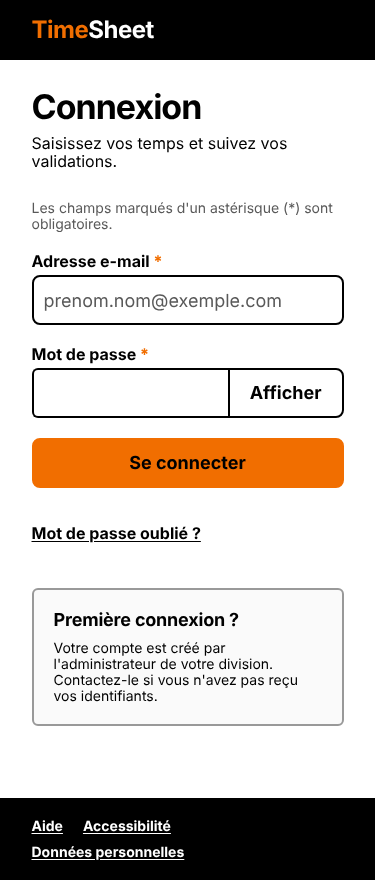
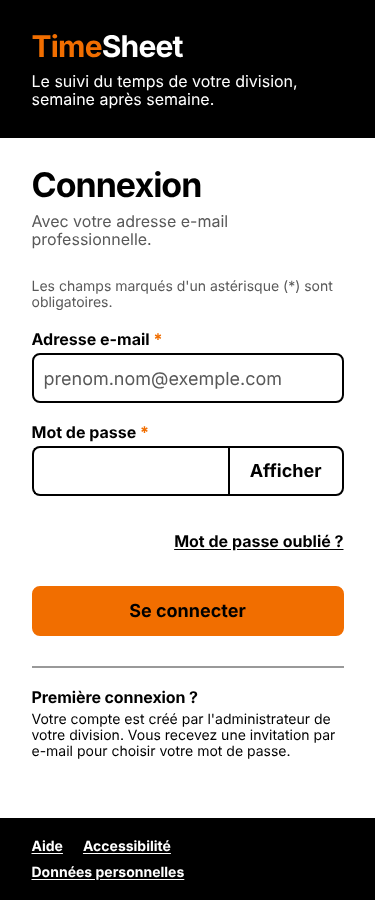
Maquettes et spécification : nouvelle version fournie
Remplacement de PROMPT.md, CLAUDE.md et design/ par la version fournie (planche 01-Connexion-erreur, volets .ts-login, vue Colonnes dans l'URL). Section Commandes de CLAUDE.md rétablie.

diff --git a/design/ecrans/01-Connexion.html b/design/ecrans/01-Connexion.html
@@ -8,6 +8,6 @@
 <style>body{margin:0}</style>
 </head>
 <body>
-<div class="page page-plain"><header class="navbar"><div class="container"><a class="navbar-brand" href="01-Connexion.html"><span><span class="wm-time">Time</span>Sheet</span></a></div></header><main class="container" style="display: grid; grid-template-columns: repeat(auto-fit, minmax(min(380px, 100%), 1fr)); gap: 60px; align-items: start; padding: 60px 0px;"><section aria-labelledby="titre-connexion" style="display: flex; flex-direction: column; gap: 30px;"><div style="display: flex; flex-direction: column; gap: 10px;"><h1 id="titre-connexion">Connexion</h1><p class="lead">Saisissez vos temps, suivez vos validations et retrouvez vos fiches de présence.</p></div><form style="display: flex; flex-direction: column; gap: 20px;"><p class="small text-secondary">Les champs marqués d'un astérisque (*) sont obligatoires.</p><div><label class="form-label is-required" for="email">Adresse e-mail</label><input class="form-control" id="email" type="email" autocomplete="username" aria-required="true" placeholder="prenom.nom@exemple.com"></div><div><label class="form-label is-required" for="mdp">Mot de passe</label><div class="input-group"><input class="form-control" id="mdp" type="password" autocomplete="current-password" aria-required="true"><button class="btn" type="button" aria-pressed="false">Afficher</button></div></div><div style="display: flex; flex-wrap: wrap; align-items: center; justify-content: space-between; gap: 20px;"><a class="btn btn-primary" href="02-Tableau-de-bord.html">Se connecter</a><a href="#">Mot de passe oublié ?</a></div></form><div class="ts-todo" style="display: flex; flex-direction: column; gap: 10px;"><p class="small fw-bold">Prototype uniquement : entrer avec un profil</p><ul style="display: flex; flex-wrap: wrap; gap: 10px 20px;"><li><a href="02-Tableau-de-bord.html">Staff</a></li><li><a href="07-File-validation.html">Manager</a></li><li><a href="11-Vue-consolidee.html">Owner</a></li><li><a href="12-Admin-division.html">Admin division</a></li><li><a href="13-Admin-plateforme.html">Admin plateforme</a></li></ul></div></section><aside class="card card-muted" aria-labelledby="titre-aide"><h2 class="h4" id="titre-aide">Première connexion ?</h2><p>Votre compte est créé par l'administrateur de votre division. Vous recevez vos identifiants par e-mail.</p><p>Si vous n'avez rien reçu, contactez l'administrateur de votre division.</p></aside></main><footer class="footer"><div class="container"><span>TimeSheet · usage interne</span><a href="#">Aide</a><a href="#">Accessibilité</a><a href="#">Données personnelles</a></div></footer></div>
+<div class="ts-login"><aside class="ts-login-brand" aria-label="Présentation de TimeSheet"><p class="h1"><span class="wm-time">Time</span>Sheet</p><div style="display: flex; flex-direction: column; gap: 30px;"><p class="h2">Le suivi du temps de votre division, semaine après semaine.</p><ol class="ts-login-steps"><li><span class="ts-login-num" aria-hidden="true">1</span><span><span class="fw-bold">Saisir.</span> Vos heures par projet, jour par jour.</span></li><li><span class="ts-login-num" aria-hidden="true">2</span><span><span class="fw-bold">Soumettre.</span> Votre manager valide la semaine ou vous la renvoie.</span></li><li><span class="ts-login-num" aria-hidden="true">3</span><span><span class="fw-bold">Signer.</span> Chaque mois, votre fiche de présence part aux RH.</span></li></ol></div><p class="small">Orange Cameroun · usage interne</p></aside><main class="ts-login-main"><div class="ts-login-form"><div style="display: flex; flex-direction: column; gap: 10px;"><h1 id="titre-connexion">Connexion</h1><p class="text-secondary">Avec votre adresse e-mail professionnelle.</p></div><form aria-labelledby="titre-connexion" style="display: flex; flex-direction: column; gap: 20px;"><p class="small text-secondary">Les champs marqués d'un astérisque (*) sont obligatoires.</p><div><label class="form-label is-required" for="email">Adresse e-mail</label><input class="form-control form-control-lg " id="email" type="email" autocomplete="username" aria-required="true" aria-describedby="err-email" placeholder="prenom.nom@exemple.com" value=""><div id="err-email"></div></div><div><label class="form-label is-required" for="mdp">Mot de passe</label><div class="input-group"><input class="form-control form-control-lg " id="mdp" type="password" autocomplete="current-password" aria-required="true" aria-describedby="err-mdp" value=""><button class="btn btn-lg" type="button" aria-pressed="false" aria-controls="mdp"><span class="sc-interp">Afficher</span></button></div><div id="err-mdp"></div></div><div style="display: flex; justify-content: flex-end;"><a href="#">Mot de passe oublié ?</a></div><button class="btn btn-primary btn-lg btn-block" type="button">Se connecter</button></form><div style="display: flex; flex-direction: column; gap: 5px; padding-top: 20px; border-top: 2px solid rgb(153, 153, 153);"><h2 class="h6">Première connexion ?</h2><p class="small">Votre compte est créé par l'administrateur de votre division. Vous recevez une invitation par e-mail pour choisir votre mot de passe.</p></div><div class="ts-todo" style="display: flex; flex-direction: column; gap: 10px;"><p class="small fw-bold">Prototype uniquement : entrer avec un profil</p><ul style="display: flex; flex-wrap: wrap; gap: 10px 20px;"><li><a href="02-Tableau-de-bord.html">Staff</a></li><li><a href="07-File-validation.html">Manager</a></li><li><a href="11-Vue-consolidee.html">Owner</a></li><li><a href="12-Admin-division.html">Admin division</a></li><li><a href="13-Admin-plateforme.html">Admin plateforme</a></li></ul></div></div><footer class="ts-login-foot"><a href="#">Aide</a><a href="#">Accessibilité</a><a href="#">Données personnelles</a></footer></main></div>
 </body>
 </html>

diff --git a/design/ecrans/01-Connexion-mobile.html b/design/ecrans/01-Connexion-mobile.html
@@ -8,6 +8,6 @@
 <style>body{margin:0}</style>
 </head>
 <body>
-<div style="width: 375px; min-height: 880px; display: flex; flex-direction: column; background: rgb(255, 255, 255);"><header class="navbar"><div class="container-xs" style="display: flex; align-items: center; min-height: 60px;"><a class="navbar-brand" href="01-Connexion-mobile.html"><span><span class="wm-time">Time</span>Sheet</span></a></div></header><main class="container-xs" style="flex: 1 1 0%; display: flex; flex-direction: column; gap: 30px; padding: 30px 0px;"><div style="display: flex; flex-direction: column; gap: 10px;"><h1>Connexion</h1><p>Saisissez vos temps et suivez vos validations.</p></div><form style="display: flex; flex-direction: column; gap: 20px;"><p class="small text-secondary">Les champs marqués d'un astérisque (*) sont obligatoires.</p><div><label class="form-label is-required" for="email">Adresse e-mail</label><input class="form-control form-control-lg" id="email" type="email" autocomplete="username" aria-required="true" placeholder="prenom.nom@exemple.com"></div><div><label class="form-label is-required" for="mdp">Mot de passe</label><div class="input-group"><input class="form-control form-control-lg" id="mdp" type="password" autocomplete="current-password" aria-required="true"><button class="btn btn-lg" type="button" aria-pressed="false" style="border-radius: 0px 8px 8px 0px;">Afficher</button></div></div><a class="btn btn-primary btn-lg btn-block" href="02-Tableau-de-bord-mobile.html">Se connecter</a><a href="#" style="display: flex; align-items: center; min-height: 50px;">Mot de passe oublié ?</a></form><aside class="card card-muted" aria-labelledby="titre-aide" style="gap: 10px;"><h2 class="h5" id="titre-aide">Première connexion ?</h2><p class="small">Votre compte est créé par l'administrateur de votre division. Contactez-le si vous n'avez pas reçu vos identifiants.</p></aside></main><footer class="footer"><div class="container-xs" style="display: flex; flex-wrap: wrap; gap: 10px 20px; font-size: 14px; line-height: 16px;"><a href="#">Aide</a><a href="#">Accessibilité</a><a href="#">Données personnelles</a></div></footer></div>
+<div style="width: 375px; min-height: 900px; display: flex; flex-direction: column; background: rgb(255, 255, 255);"><header style="padding: 30px 0px; background: rgb(0, 0, 0); color: rgb(255, 255, 255);"><div class="container-xs" style="display: flex; flex-direction: column; gap: 10px;"><p class="h2"><span class="wm-time">Time</span>Sheet</p><p>Le suivi du temps de votre division, semaine après semaine.</p></div></header><main class="container-xs" style="flex: 1 1 0%; display: flex; flex-direction: column; gap: 30px; padding: 30px 0px;"><div style="display: flex; flex-direction: column; gap: 10px;"><h1 id="titre-connexion">Connexion</h1><p class="text-secondary">Avec votre adresse e-mail professionnelle.</p></div><form aria-labelledby="titre-connexion" style="display: flex; flex-direction: column; gap: 20px;"><p class="small text-secondary">Les champs marqués d'un astérisque (*) sont obligatoires.</p><div><label class="form-label is-required" for="email">Adresse e-mail</label><input class="form-control form-control-lg " id="email" type="email" autocomplete="username" aria-required="true" aria-describedby="err-email" placeholder="prenom.nom@exemple.com" value=""><div id="err-email"></div></div><div><label class="form-label is-required" for="mdp">Mot de passe</label><div class="input-group"><input class="form-control form-control-lg " id="mdp" type="password" autocomplete="current-password" aria-required="true" aria-describedby="err-mdp" value=""><button class="btn btn-lg" type="button" aria-pressed="false" aria-controls="mdp"><span class="sc-interp">Afficher</span></button></div><div id="err-mdp"></div></div><div style="display: flex; justify-content: flex-end;"><a href="#" style="display: flex; align-items: center; min-height: 50px;">Mot de passe oublié ?</a></div><button class="btn btn-primary btn-lg btn-block" type="button">Se connecter</button></form><div style="display: flex; flex-direction: column; gap: 5px; padding-top: 20px; border-top: 2px solid rgb(153, 153, 153);"><h2 class="h6">Première connexion ?</h2><p class="small">Votre compte est créé par l'administrateur de votre division. Vous recevez une invitation par e-mail pour choisir votre mot de passe.</p></div></main><footer class="footer"><div class="container-xs" style="display: flex; flex-wrap: wrap; gap: 10px 20px; font-size: 14px; line-height: 16px;"><a href="#">Aide</a><a href="#">Accessibilité</a><a href="#">Données personnelles</a></div></footer></div>
 </body>
 </html>

diff --git a/design/ecrans/01-Connexion-erreur.html b/design/ecrans/01-Connexion-erreur.html
@@ -1,0 +1,13 @@
+<!doctype html>
+<html lang="fr">
+<head>
+<meta charset="utf-8">
+<meta name="viewport" content="width=device-width, initial-scale=1">
+<title>Connexion, identifiants incorrects</title>
+<link rel="stylesheet" href="../ods.css">
+<style>body{margin:0}</style>
+</head>
+<body>
+<div class="ts-login"><aside class="ts-login-brand" aria-label="Présentation de TimeSheet"><p class="h1"><span class="wm-time">Time</span>Sheet</p><div style="display: flex; flex-direction: column; gap: 30px;"><p class="h2">Le suivi du temps de votre division, semaine après semaine.</p><ol class="ts-login-steps"><li><span class="ts-login-num" aria-hidden="true">1</span><span><span class="fw-bold">Saisir.</span> Vos heures par projet, jour par jour.</span></li><li><span class="ts-login-num" aria-hidden="true">2</span><span><span class="fw-bold">Soumettre.</span> Votre manager valide la semaine ou vous la renvoie.</span></li><li><span class="ts-login-num" aria-hidden="true">3</span><span><span class="fw-bold">Signer.</span> Chaque mois, votre fiche de présence part aux RH.</span></li></ol></div><p class="small">Orange Cameroun · usage interne</p></aside><main class="ts-login-main"><div class="ts-login-form"><div style="display: flex; flex-direction: column; gap: 10px;"><h1 id="titre-connexion">Connexion</h1><p class="text-secondary">Avec votre adresse e-mail professionnelle.</p></div><form aria-labelledby="titre-connexion" style="display: flex; flex-direction: column; gap: 20px;"><div class="alert alert-danger" role="alert"><span class="mark mark-danger" aria-hidden="true"></span><div class="alert-body"><p class="alert-heading">Connexion impossible</p><p>L'adresse e-mail ou le mot de passe est incorrect. Vérifiez votre saisie ou réinitialisez votre mot de passe.</p></div></div><p class="small text-secondary">Les champs marqués d'un astérisque (*) sont obligatoires.</p><div><label class="form-label is-required" for="email">Adresse e-mail</label><input class="form-control form-control-lg " id="email" type="email" autocomplete="username" aria-required="true" aria-describedby="err-email" placeholder="prenom.nom@exemple.com" value="aicha.ndongo@exemple.com"><div id="err-email"></div></div><div><label class="form-label is-required" for="mdp">Mot de passe</label><div class="input-group"><input class="form-control form-control-lg " id="mdp" type="password" autocomplete="current-password" aria-required="true" aria-describedby="err-mdp" value=""><button class="btn btn-lg" type="button" aria-pressed="false" aria-controls="mdp"><span class="sc-interp">Afficher</span></button></div><div id="err-mdp"></div></div><div style="display: flex; justify-content: flex-end;"><a href="#">Mot de passe oublié ?</a></div><button class="btn btn-primary btn-lg btn-block" type="button">Se connecter</button></form><div style="display: flex; flex-direction: column; gap: 5px; padding-top: 20px; border-top: 2px solid rgb(153, 153, 153);"><h2 class="h6">Première connexion ?</h2><p class="small">Votre compte est créé par l'administrateur de votre division. Vous recevez une invitation par e-mail pour choisir votre mot de passe.</p></div><div class="ts-todo" style="display: flex; flex-direction: column; gap: 10px;"><p class="small fw-bold">Prototype uniquement : entrer avec un profil</p><ul style="display: flex; flex-wrap: wrap; gap: 10px 20px;"><li><a href="02-Tableau-de-bord.html">Staff</a></li><li><a href="07-File-validation.html">Manager</a></li><li><a href="11-Vue-consolidee.html">Owner</a></li><li><a href="12-Admin-division.html">Admin division</a></li><li><a href="13-Admin-plateforme.html">Admin plateforme</a></li></ul></div></div><footer class="ts-login-foot"><a href="#">Aide</a><a href="#">Accessibilité</a><a href="#">Données personnelles</a></footer></main></div>
+</body>
+</html>

diff --git a/design/ods.css b/design/ods.css
@@ -398,3 +398,14 @@ button.dropdown-item{width:100%;border:0;background:none;font-family:inherit;fon
 .ts-board-head{display:flex;align-items:center;justify-content:space-between;gap:10px}
 .ts-board-card{display:flex;flex-direction:column;gap:10px;padding:10px;border:2px solid #000;border-radius:6px;background:#fff}
 .ts-board-empty{padding:20px 10px;border:2px dashed #999;border-radius:6px;color:#595959;font-size:14px;line-height:16px;text-align:center}
+/* Page de connexion (hors ODS) : volet de marque noir, formulaire centré */
+.ts-login{display:flex;flex-wrap:wrap;align-items:stretch;min-height:100vh;background:#fff}
+.ts-login-brand{flex:1 1 400px;display:flex;flex-direction:column;justify-content:space-between;gap:60px;padding:60px;background:#000;color:#fff}
+.ts-login-main{flex:2 1 480px;display:flex;flex-direction:column;align-items:center;gap:30px;padding:60px 20px 20px}
+.ts-login-form{display:flex;flex-direction:column;gap:30px;width:min(400px,100%);margin:auto 0}
+.ts-login-steps{display:flex;flex-direction:column;gap:20px}
+.ts-login-steps li{display:flex;align-items:flex-start;gap:20px}
+.ts-login-num{display:flex;align-items:center;justify-content:center;flex:none;width:30px;height:30px;border:2px solid #fff;border-radius:4px;font-weight:700}
+.ts-login-foot{display:flex;flex-wrap:wrap;justify-content:center;gap:10px 30px;font-size:14px;line-height:16px}
+.input-group>.form-control-lg{border-radius:8px 0 0 8px}
+.input-group>.btn-lg{border-radius:0 8px 8px 0}

diff --git a/PROMPT.md b/PROMPT.md
@@ -19,7 +19,7 @@ Lis ce document en entier, puis `design/README.md`, avant d'écrire la première
 | Chemin | Contenu |
 |---|---|
 | `design/ods.css` | Feuille de style de la maquette. Elle applique les tokens du design system avec les noms de classes Boosted, plus les composants spécifiques préfixés `.ts-`. C'est la référence visuelle. |
-| `design/ecrans/*.html` | Les 29 planches en HTML statique. Ouvre-les dans un navigateur : c'est le rendu attendu, au pixel. |
+| `design/ecrans/*.html` | Les 30 planches en HTML statique. Ouvre-les dans un navigateur : c'est le rendu attendu, au pixel. |
 | `design/captures/*.png` | Captures des mêmes planches. |
 | `design/prototype/*.dc.html` | Sources du prototype pour les 5 écrans à logique (03, 06, 07, 08, 09). Le bloc `<script>` en bas de chaque fichier contient les règles de calcul et les transitions d'état. Le moteur de rendu est propre à l'outil de maquettage : reprends la logique, pas la syntaxe. |
 | `design/README.md` | Index des planches, note de composants par écran, hypothèses. |
@@ -142,6 +142,13 @@ L'application doit se comprendre sans mode d'emploi. Ces règles s'appliquent à
 9. **Une réponse immédiate.** Chaque action affiche son résultat sans rechargement de page, annoncé dans une zone de statut.
 
 ## 6. Structure de l'interface
+
+**Connexion.** La seule page sans navigation. Deux volets (`.ts-login`) : à gauche, sur fond noir, le mot TimeSheet, une phrase et les trois étapes de l'application (Saisir, Soumettre, Signer) ; à droite, le formulaire seul, centré, large de 400 px au plus, en contrôles de 50 px. Le noir du volet est celui de la barre latérale qu'on retrouve après la connexion. Sur mobile, le volet devient un bandeau en tête et les trois étapes disparaissent. Comportement :
+
+- bouton « Afficher / Masquer » sur le mot de passe ;
+- champ vide à l'envoi : message sous le champ concerné, focus sur le premier champ en erreur ;
+- identifiants incorrects : une alerte au-dessus du formulaire qui ne dit pas lequel des deux est faux, l'adresse e-mail reste saisie, le mot de passe est vidé ;
+- « Première connexion ? » explique que le compte vient d'une invitation de l'administrateur de division.
 
 **Desktop.** Barre latérale noire à gauche, 240 px, collante sur toute la hauteur. De haut en bas : le mot TimeSheet et le nom de la division, les liens du rôle avec icône, puis en bas de colonne le bloc utilisateur (initiales, nom, rôle), Paramètres et Se déconnecter. Lien courant : fond `#ff7900`, texte noir, `aria-current="page"`. Le contenu occupe le reste, dans un conteneur de 1200 px maximum, avec le pied de page en bas.
 
@@ -281,7 +288,7 @@ L'écran se lit de haut en bas, du plus urgent au moins urgent.
 - Heures consommées : somme des heures des fiches soumises ou validées, sur le budget, avec une barre. Au-delà de 100 %, la barre passe en rouge et un texte dit « Budget dépassé de 10 h ». Le budget n'a pas d'étiquette : une ligne ne porte qu'une étiquette, le statut.
 - Deux affichages, par un Button group « Liste / Colonnes » :
   - **Liste** : tableau filtrable par statut (pills « Tous », « En cours », « À démarrer », « En pause », « Terminés », chacune avec son compte). Tri par statut puis par code.
-  - **Colonnes** : une colonne par statut, une carte par projet. Pas de glisser-déposer : le statut se change par l'étiquette, au clavier comme à la souris. Sous 1024 px, seul l'affichage en liste est proposé.
+  - **Colonnes** : une colonne par statut, une carte par projet. Pas de glisser-déposer : le statut se change par l'étiquette, au clavier comme à la souris. Sous 1024 px, seul l'affichage en liste est proposé. Le choix d'affichage est gardé dans l'URL (`?vue=colonnes`).
 - Les projets archivés sont masqués. Un interrupteur « Afficher les projets archivés » les fait réapparaître. L'archivage se fait depuis le panneau de modification.
 - La création et la modification se font dans un Offcanvas à droite, la liste reste visible derrière.
 
@@ -355,7 +362,7 @@ Une page à ancres : Utilisateurs, Rôles et permissions, Workflows, Règles de 
 
 | # | Écran | Route | Maquette (`design/ecrans/`) |
 |---|---|---|---|
-| 1 | Connexion | `/connexion` | `01-Connexion`, `01-Connexion-mobile` |
+| 1 | Connexion | `/connexion` | `01-Connexion`, `01-Connexion-erreur`, `01-Connexion-mobile` |
 | 2 | Tableau de bord | `/tableau-de-bord` | `02-Tableau-de-bord`, `02-Tableau-de-bord-mobile` |
 | 3 | Saisie hebdomadaire | `/saisie/[annee]/[semaine]` | `03-Saisie-hebdo`, `03-Saisie-hebdo-mobile` |
 | 4 | Confirmation de soumission | modale de l'écran 3 | `04-Confirmation` |

diff --git a/design/README.md b/design/README.md
@@ -15,8 +15,9 @@ Référence visuelle de l'application. Les règles métier et la méthode sont d
 
 | Planche | Cadre | Fichier |
 |---|---|---|
-| 01 · Connexion | 1280 × 800 | `ecrans/01-Connexion.html` |
-| 01 · Connexion · mobile 375 | 375 × 880 | `ecrans/01-Connexion-mobile.html` |
+| 01 · Connexion | 1280 × 820 | `ecrans/01-Connexion.html` |
+| 01 · Connexion · identifiants incorrects | 1280 × 970 | `ecrans/01-Connexion-erreur.html` |
+| 01 · Connexion · mobile 375 | 375 × 900 | `ecrans/01-Connexion-mobile.html` |
 | 02 · Tableau de bord | 1280 × 1570 | `ecrans/02-Tableau-de-bord.html` |
 | 02 · Tableau de bord · mobile 375 | 375 × 1990 | `ecrans/02-Tableau-de-bord-mobile.html` |
 | 03 · Saisie hebdomadaire | 1280 × 1050 | `ecrans/03-Saisie-hebdo.html` |
@@ -71,13 +72,19 @@ Pour chaque écran : composants ODS utilisés, composants spécifiques, tensions
 
 **01 · Connexion** (`01-Connexion`)
 
-- ODS : Orange navbar, Input, Input group, Button (primary, default), Card, Footer.
-- Spécifiques : aucun.
+- ODS : Input, Input group, Button (primary, default), Alert, Footer.
+- Spécifiques : page en deux volets (.ts-login). À gauche, le nom de l'application et ses trois étapes, sur le noir de la navigation latérale. À droite, le formulaire seul, centré, en contrôles de 50 px.
+- Dans le prototype : « Afficher » montre le mot de passe, « Se connecter » sans saisie affiche les messages sous les champs, avec saisie il ouvre le tableau de bord.
 - Tension : le marqueur requis #f16e00 fait 3,0:1 sur blanc, sous le 4,5:1 d'un texte. Il est doublé par aria-required et par la légende des champs obligatoires.
+
+**01 · Connexion · identifiants incorrects** (`01-Connexion-erreur`)
+
+- ODS : Alert (danger), Input, Button.
+- Le message ne dit pas lequel des deux champs est faux. L'adresse e-mail reste saisie, le mot de passe est vidé.
 
 **01 · Connexion · mobile 375** (`01-Connexion-mobile`)
 
-- Conteneur 312 px. Contrôles large de 50 px pour le tactile. H1 à 34 px comme sur desktop : titres courts obligatoires.
+- Le volet noir devient un bandeau en tête, avec le nom et la phrase d'accroche. Les trois étapes ne sont pas reprises : le formulaire passe d'abord. Conteneur 312 px, contrôles de 50 px.
 
 **02 · Tableau de bord** (`02-Tableau-de-bord`)
 

diff --git a/CLAUDE.md b/CLAUDE.md
@@ -44,13 +44,3 @@ Application interne Orange Cameroun : projets, temps de travail, fiche de prése
 - Règles métier pures dans `lib/` (testées par Vitest). Prisma seulement dans `lib/data/` (règle ESLint).
 - Textes d'interface dans `lib/i18n/fr.ts`. Formats (virgule, espace insécable, dates) dans `lib/format.ts`.
 - Prisma 6 tant que Node < 22.12 (voir `docs/questions-ouvertes.md`).
-
-<!-- BEGIN:nextjs-agent-rules -->
-
-# This is NOT the Next.js you know
-
-This version has breaking changes — APIs, conventions, and file structure may all differ from your training data. Read the relevant guide in `node_modules/next/dist/docs/` (resolved from this file's directory; in monorepos the `next` package may not be visible from the repo root) before writing any code. Heed deprecation notices.
-
-This block is written and re-added by `next dev` — verify at `node_modules/next/dist/server/lib/generate-agent-files.js`. Removing it from a diff only re-creates the uncommitted change; committing it with your work keeps the tree clean.
-
-<!-- END:nextjs-agent-rules -->
